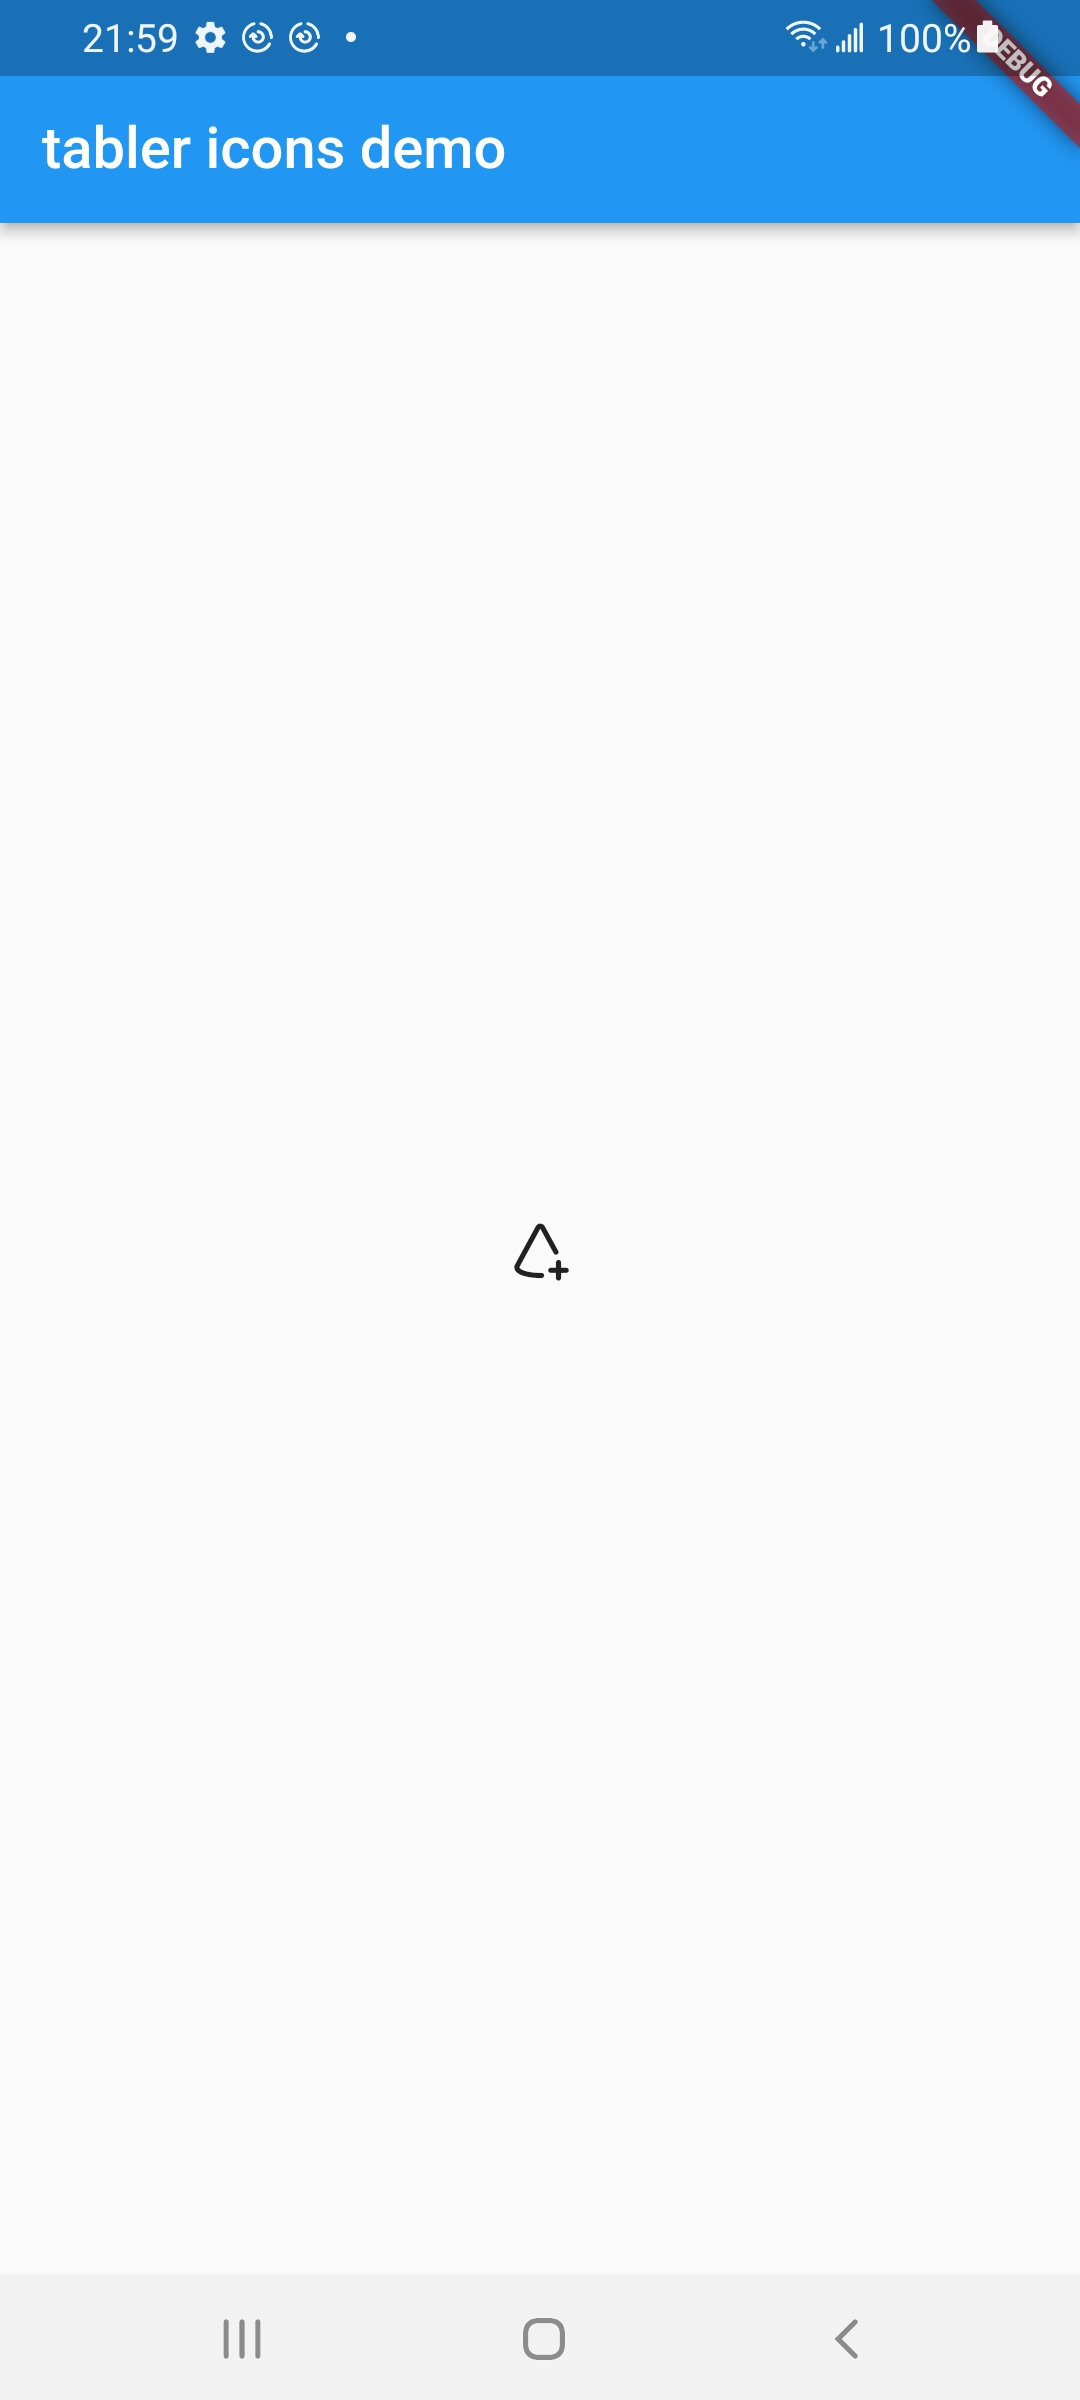
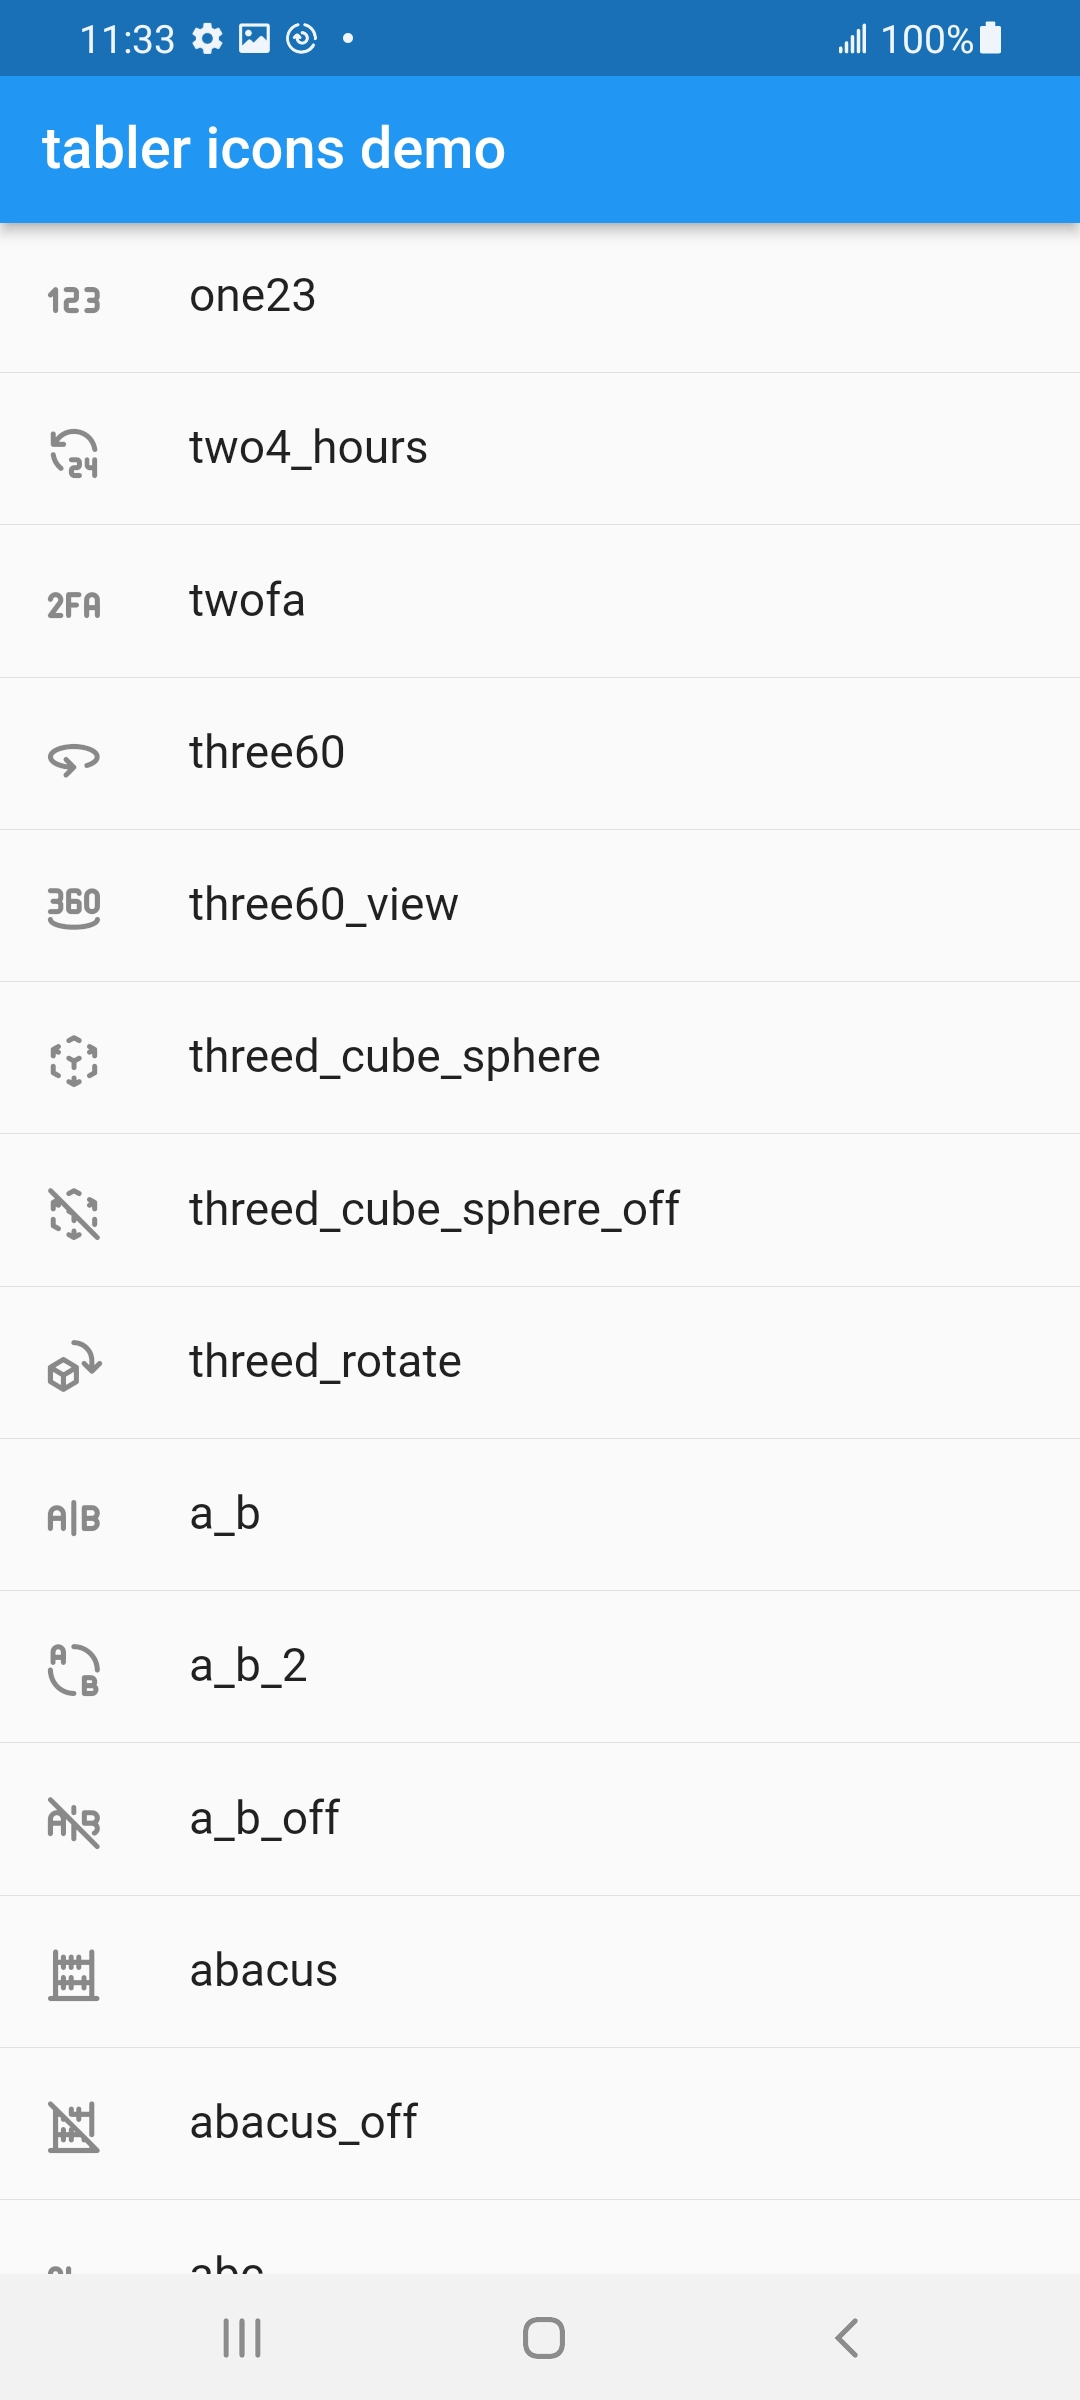
feat: update example

diff --git a/example/lib/main.dart b/example/lib/main.dart
@@ -11,6 +11,7 @@ class MyApp extends StatelessWidget {
   @override
   Widget build(BuildContext context) {
     return const MaterialApp(
+      debugShowCheckedModeBanner: false,
       title: 'tabler icons',
       home: HomePage(),
     );
@@ -26,6 +27,23 @@ class HomePage extends StatelessWidget {
         appBar: AppBar(
           title: const Text('tabler icons demo'),
         ),
-        body: const Center(child: Icon(TablerIcons.cone_plus)));
+        body: ListView.builder(
+          itemCount: TablerIcons.all.length,
+          itemBuilder: (BuildContext context, int index) {
+            String key = TablerIcons.all.keys.elementAt(index);
+            IconData iconData = TablerIcons.all.values.elementAt(index);
+            return Column(
+              children: <Widget>[
+                ListTile(
+                  leading: Icon(iconData),
+                  title: Text(key),
+                ),
+                const Divider(
+                  height: 2.0,
+                ),
+              ],
+            );
+          },
+        ));
   }
 }
